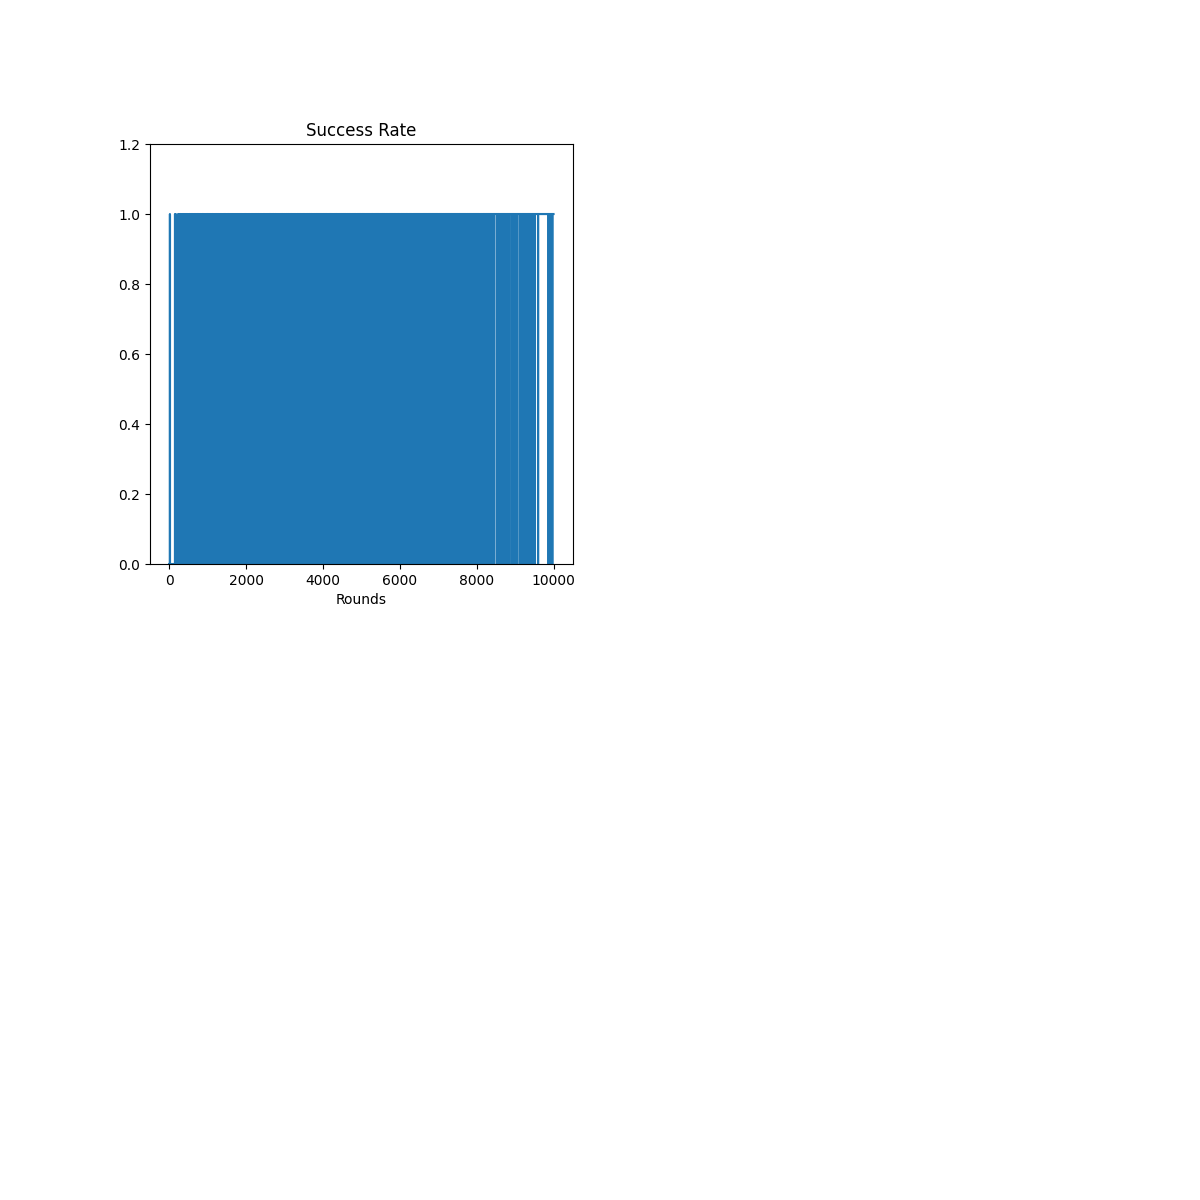
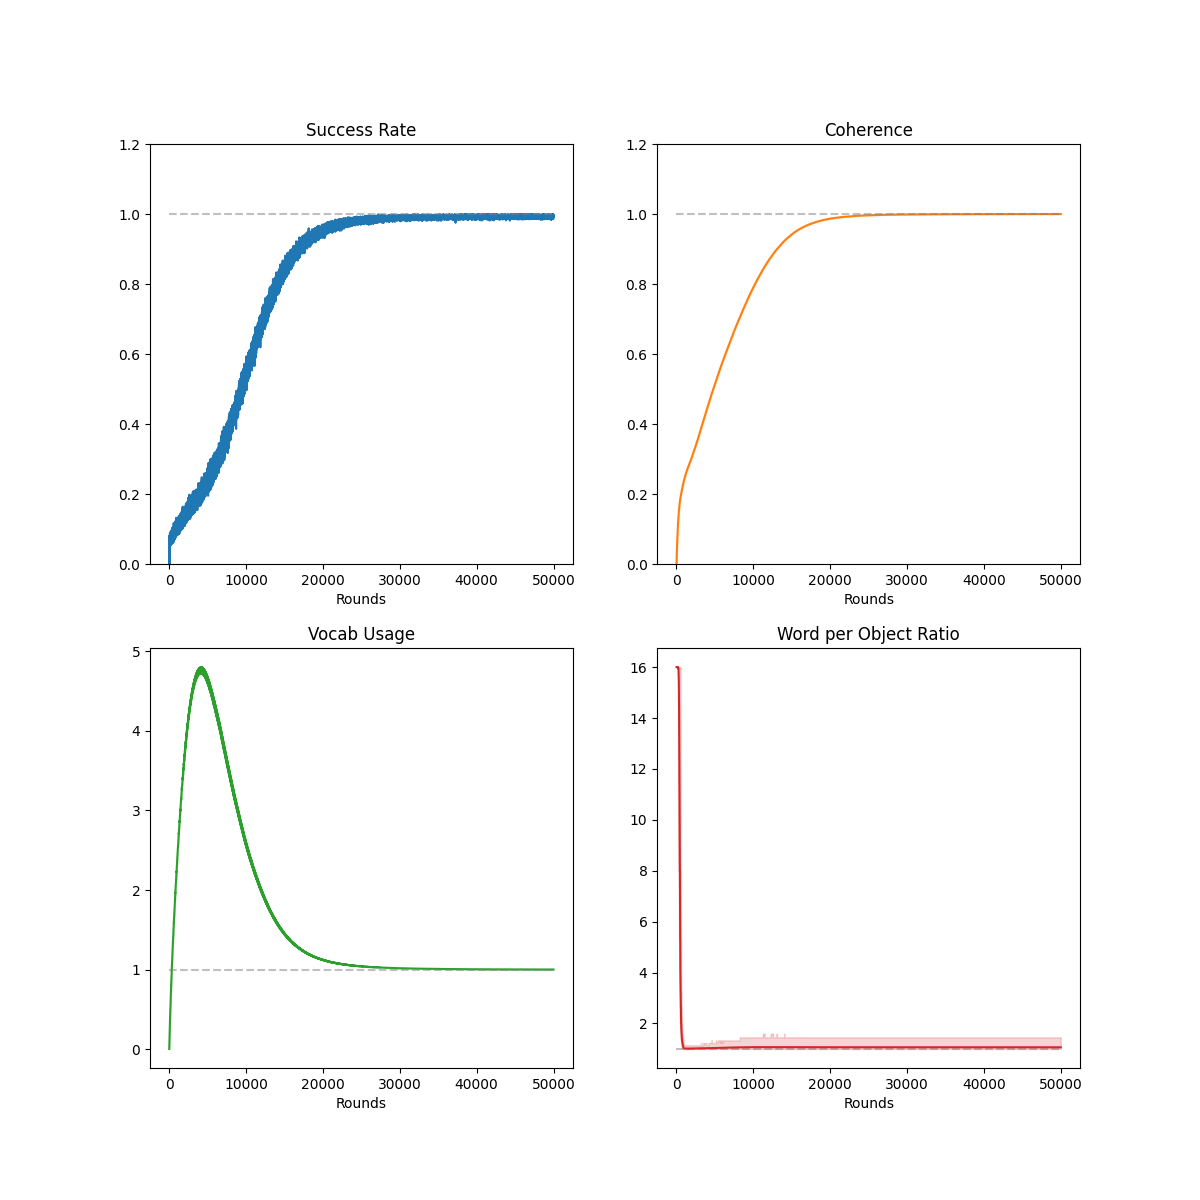
fixed metrics

diff --git a/games/base_game.py b/games/base_game.py
@@ -257,7 +257,7 @@ class BaseGame:
         )  # (games, agents, objects)
 
         top_words = self.state[
-            self.instance_ids.unsqueeze(1),
+            self.instance_ids.unsqueeze(1).unsqueeze(2),
             torch.arange(self.agents, device=self.device).unsqueeze(1),
             torch.arange(self.objects, device=self.device).unsqueeze(0),
             top_word_index,
@@ -268,22 +268,23 @@ class BaseGame:
 
         sorted_words, _ = torch.sort(top_words, dim=2)
 
-        print(sorted_words)
-
-        count_zero = (sorted_words == 0).sum(dim=2, keepdim=True)  # (objects, 1)
+        count_zero = (sorted_words == 0).sum(dim=2)  # (objects, 1)
 
         diff = torch.diff(sorted_words, dim=2)  # (agents-1, objects)
+
         count_diffs = (diff != 0).sum(dim=2)  # (agents-1,)
 
-        print("Coherence calculation:", count_diffs)
+        coherence = ((tensor_agents - count_diffs - count_zero) / tensor_agents).mean()
 
-        return ((tensor_agents - count_diffs - count_zero) / tensor_agents).mean(dim=1)
+        return coherence
+    
 
     def count_polysems(self) -> torch.Tensor:
-        tensor_objects = torch.tensor(self.objects, device=self.device)
+        tensor_objects_count = torch.tensor(self.objects, device=self.device)
 
-        top_word_index = self.state[:, :, :, 1].argmax(dim=-1)  # (agents, objects)
+        top_word_index = self.state[:, :, :, :, 1].argmax(dim=-1)  # (agents, objects)
         top_words = self.state[
+            self.instance_ids.unsqueeze(1).unsqueeze(2),
             torch.arange(self.agents, device=self.device).unsqueeze(1),
             torch.arange(self.objects, device=self.device).unsqueeze(0),
             top_word_index,
@@ -292,9 +293,28 @@ class BaseGame:
             -1, -2
         )  # (objects, agents)
 
-        top_for_object = top_words.mode(dim=1).values
+        top_for_object = top_words.mode(dim=2).values
 
-        return tensor_objects / torch.unique(top_for_object).shape[0]
+        sorted_words, _ = torch.sort(top_for_object, dim=1)
+
+        diff = torch.diff(sorted_words, dim=1)  # (agents-1, objects)
+
+        count_diffs = (diff != 0).sum(dim=1) + 1  # (agents-1,)
+        return tensor_objects_count / count_diffs
+
+
+
+        print(uniqe_words_counts)
+
+        return tensor_objects_count / uniqe_words_counts
+
+
+    def vocab_usage(self):
+
+        usage = (self.state[:, :, :, :, 0] > 0).float().sum(-1)
+
+        return usage.mean()
+
 
     def step(self, i: int) -> None:
         speakers, hearers = self.choose_agents()
@@ -318,8 +338,8 @@ class BaseGame:
 
             self.stats[0, i] = self.success_rate()
             self.stats[1, i] = self.coherence()
-            # self.stats[2, i] = self.unique_words_per_object().float()
-            # self.stats[3, i] = self.count_polysems().float()
+            self.stats[2, i] = self.vocab_usage().float()
+            self.stats[3, i] = self.count_polysems().float()
             # # --- IGNORE ---
 
             # progress.set_postfix(
@@ -334,38 +354,45 @@ class BaseGame:
         x = torch.arange(rounds).cpu().numpy()
 
         def mean_q(metric_idx):
-            data = self.stats[metric_idx]  # shape (steps, iters)
+            data = self.stats[metric_idx].cpu().numpy()  # shape (steps, iters)
             mean = data.mean(axis=-1)
-            lo = np.percentile(data, 2.5, axis=1)
-            hi = np.percentile(data, 97.5, axis=1)
+            lo = np.percentile(data, 0.5, axis=1)
+            hi = np.percentile(data, 99.5, axis=1)
             return mean, lo, hi
 
         plt.figure(figsize=(12, 12))
 
         plt.subplot(2, 2, 1)
         mean, lo, hi = mean_q(0)
-        plt.plot(x, mean.cpu().numpy(), color="C0")
-        plt.fill_between(x, lo, hi, color="C0", alpha=0.2)
+        plt.plot(x, mean, color="C0")
+        plt.hlines(1.0, 0, rounds, colors="gray", linestyles="dashed", alpha=0.5)
         plt.title("Success Rate")
         plt.xlabel("Rounds")
         plt.ylim(0, 1.2)
 
         plt.subplot(2, 2, 2)
         mean, lo, hi = mean_q(1)
-        plt.plot(x, mean.cpu().numpy(), color="C1")
+        plt.plot(x, mean, color="C1")
+        plt.hlines(1.0, 0, rounds, colors="gray", linestyles="dashed", alpha=0.5)
         plt.fill_between(x, lo, hi, color="C1", alpha=0.2)
         plt.title("Coherence")
         plt.xlabel("Rounds")
         plt.ylim(0, 1.2)
 
-        # plt.subplot(2, 2, 3)
-        # plt.plot(x, self.stats[2].cpu().numpy())
-        # plt.title("Unique Words")
-        # plt.xlabel("Rounds")
+        plt.subplot(2, 2, 3)
+        mean, lo, hi = mean_q(2)
+        plt.plot(x, mean, color="C2")
+        plt.hlines(1.0, 0, rounds, colors="gray", linestyles="dashed", alpha=0.5)
+        plt.fill_between(x, lo, hi, color="C2", alpha=0.2)
+        plt.title("Vocab Usage")
+        plt.xlabel("Rounds")
 
-        # plt.subplot(2, 2, 4)
-        # plt.plot(x, self.stats[3].cpu().numpy())
-        # plt.title("Word per Object Ratio")
-        # plt.xlabel("Rounds")
+        plt.subplot(2, 2, 4)
+        mean, lo, hi = mean_q(3)
+        plt.fill_between(x, lo, hi, color="C3", alpha=0.2)
+        plt.hlines(1.0, 0, rounds, colors="gray", linestyles="dashed", alpha=0.5)
+        plt.plot(x, mean, color="C3")
+        plt.title("Word per Object Ratio")
+        plt.xlabel("Rounds")
 
         plt.savefig(f"plots/{self.fig_prefix}_stats.png")

diff --git a/main.py b/main.py
@@ -14,15 +14,15 @@ def test_games():
     print(f"Using device: {device}")
 
     game = BaseGame(
-        1,
-        16,
+        1000,
+        32,
         16,
         memory=50,
         device=device,
         context_size=(2, 3),
     )
 
-    game.play(10000)
+    game.play(50000)
     game.plot_stats()
 
     # fuzzy_object_game = FuzzyObjectGame(
